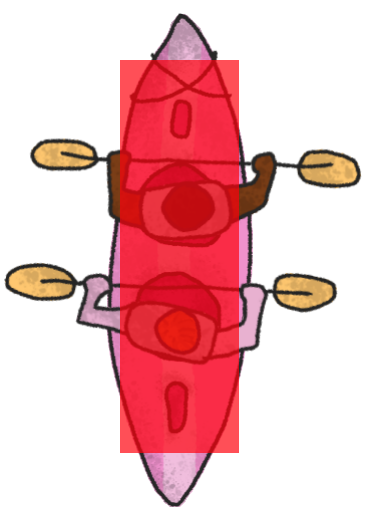
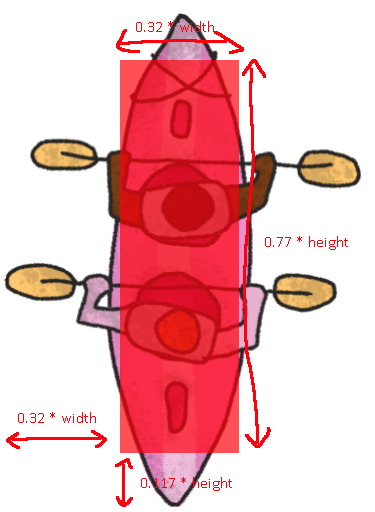
correct collisions

diff --git a/Implementation/core/src/com/teamonehundred/pixelboat/CollisionBounds.java b/Implementation/core/src/com/teamonehundred/pixelboat/CollisionBounds.java
@@ -1,33 +1,108 @@
 package com.teamonehundred.pixelboat;
 
-import com.badlogic.gdx.math.Circle;
+import com.badlogic.gdx.math.Polygon;
 import com.badlogic.gdx.math.Rectangle;
 import com.badlogic.gdx.math.Shape2D;
+import com.badlogic.gdx.math.Vector2;
 
+import java.util.ArrayList;
 import java.util.List;
 
 class CollisionBounds {
     private List<Shape2D> bounds;  // shapes that represent the area of the object
+    private float rotation; // the rotation of the sprite
+    private Vector2 origin; // the centre coordinate of the sprite
 
-    CollisionBounds(List<Shape2D> bounds){
-        this.bounds = bounds;
+    CollisionBounds() {
+        this.bounds = new ArrayList<>();
+        rotation = 0;
+        origin = new Vector2();
     }
 
-    public List<Shape2D> getBounds(){return bounds;}
+    public List<Shape2D> getShapes() {
+        return bounds;
+    }
 
-    public boolean isColliding(CollisionBounds collider){
+    public float getRotation() {
+        return rotation;
+    }
+
+    public void setRotation(float new_rotation) {
+        this.rotation = new_rotation;
+    }
+
+    public Vector2 getOrigin() {
+        return origin;
+    }
+
+    public void setOrigin(Vector2 o) {
+        origin = o;
+    }
+
+    public void addBound(Shape2D new_bound) {
+        bounds.add(new_bound);
+    }
+
+    public boolean isColliding(CollisionBounds collider) {
         // only works for rectangles, but could be expanded to check for other shape types
-        for(Shape2D my_bound : bounds) {
-            for (Shape2D their_bound : collider.getBounds()){
-                if (my_bound instanceof Rectangle){
-                    if (their_bound instanceof Rectangle){
-                        if(((Rectangle) my_bound).overlaps((Rectangle)their_bound))
-                            return false;
-                    }
+        for (Shape2D my_bound : bounds) {
+            for (Shape2D their_bound : collider.getShapes()) {
+                if (my_bound instanceof Rectangle && their_bound instanceof Rectangle) {
+                    if (rectOnRectCollides((Rectangle) my_bound, rotation, origin, (Rectangle) their_bound, collider.getRotation(), collider.getOrigin()))
+                        return true;
                 }
             }
         }
 
-        return true;
+        return false;
+    }
+
+    public boolean rectOnRectCollides(Rectangle r1, float rot1, Vector2 o1, Rectangle r2, float rot2, Vector2 o2) {
+        //get all points from rectangle 1
+        Vector2[] r1_prime = new Vector2[4];
+        r1_prime[0] = (new Vector2(r1.x, r1.y));
+        r1_prime[1] = (new Vector2(r1.x, r1.y + r1.height));
+        r1_prime[2] = (new Vector2(r1.x + r1.width, r1.y));
+        r1_prime[3] = (new Vector2(r1.x + r1.width, r1.y + r1.height));
+
+        //get all points from rectangle 2
+        Vector2[] r2_prime = new Vector2[4];
+        r2_prime[0] = (new Vector2(r2.x, r2.y));
+        r2_prime[1] = (new Vector2(r2.x, r2.y + r2.height));
+        r2_prime[2] = (new Vector2(r2.x + r2.width, r2.y));
+        r2_prime[3] = (new Vector2(r2.x + r2.width, r2.y + r2.height));
+
+        // rotate all points about their sprite's origin
+        for (Vector2 p : r1_prime)
+            p.rotateAround(o1, rot1);
+        for (Vector2 p : r2_prime)
+            p.rotateAround(o2, rot2);
+
+        Polygon pr1 = new Polygon(new float[]{
+                r1_prime[0].x, r1_prime[0].y,
+                r1_prime[1].x, r1_prime[1].y,
+                r1_prime[2].x, r1_prime[2].y,
+                r1_prime[3].x, r1_prime[3].y,});
+
+        Polygon pr2 = new Polygon(new float[]{
+                r2_prime[0].x, r2_prime[0].y,
+                r2_prime[1].x, r2_prime[1].y,
+                r2_prime[2].x, r2_prime[2].y,
+                r2_prime[3].x, r2_prime[3].y,});
+
+        // check if any points from r1 is in r2
+        for (Vector2 p : r1_prime) {
+            if (pr2.contains(p))
+                return true;
+        }
+
+        // check if any points from r2 is in r1
+        for (Vector2 p : r2_prime) {
+            if (pr1.contains(p))
+                return true;
+        }
+
+        // if nothing has collided
+        return false;
     }
 }

diff --git a/Implementation/core/src/com/teamonehundred/pixelboat/Boat.java b/Implementation/core/src/com/teamonehundred/pixelboat/Boat.java
@@ -4,6 +4,8 @@ import com.badlogic.gdx.graphics.Texture;
 import com.badlogic.gdx.graphics.g2d.Animation;
 import com.badlogic.gdx.math.Rectangle;
 import com.badlogic.gdx.math.Shape2D;
+import com.badlogic.gdx.math.Vector2;
+import org.w3c.dom.css.Rect;
 
 import java.util.ArrayList;
 import java.util.Arrays;
@@ -34,8 +36,6 @@ abstract class Boat extends MovableObject implements CollisionObject {
 
     Animation<Texture> rowing_animation;
 
-    CollisionBounds bounds;
-
     /* ################################### //
                   CONSTRUCTORS
     // ################################### */
@@ -47,8 +47,6 @@ abstract class Boat extends MovableObject implements CollisionObject {
 
     Boat(int x, int y, int w, int h, String texture_path) {
         super(x, y, w, h, texture_path, 4);
-
-        bounds = new CollisionBounds(new ArrayList<Shape2D>(Arrays.asList(new Rectangle(0, 0, 1, 2))));
     }
 
     //specify specs
@@ -190,9 +188,29 @@ abstract class Boat extends MovableObject implements CollisionObject {
      * @param object The CollisionObject that will be checked to see if it has hit this boat.
      */
     public void checkCollisions(CollisionObject object) {
-        if (bounds.isColliding(object.getBounds())) {
+        if (this.getBounds().isColliding(object.getBounds())) {
             hasCollided();
             object.hasCollided();
         }
+    }
+
+    @Override
+    public CollisionBounds getBounds() {
+        // create a new collision bounds object representing my current position
+        // see the collision bounds visualisation folder in assets for a visual representation
+        CollisionBounds my_bounds = new CollisionBounds();
+        Rectangle main_rect = new Rectangle(
+                sprite.getX()+(0.32f*sprite.getWidth()),
+                sprite.getY()+(0.117f*sprite.getHeight()),
+                0.32f*sprite.getWidth(),
+                0.77f* sprite.getHeight());
+        my_bounds.addBound(main_rect);
+
+        my_bounds.setOrigin(new Vector2(
+                sprite.getX()+(sprite.getWidth()/2),
+                sprite.getY()+(sprite.getHeight()/2)));
+        my_bounds.setRotation(sprite.getRotation());
+
+        return my_bounds;
     }
 }

diff --git a/Implementation/core/src/com/teamonehundred/pixelboat/ObstacleDuck.java b/Implementation/core/src/com/teamonehundred/pixelboat/ObstacleDuck.java
@@ -1,5 +1,8 @@
 package com.teamonehundred.pixelboat;
 
+import com.badlogic.gdx.math.Rectangle;
+import com.badlogic.gdx.math.Vector2;
+
 class ObstacleDuck extends Obstacle{
     ObstacleDuck(int x, int y) {
         super(x, y, 30, 30, "obstacle_duck.png");
@@ -16,5 +19,32 @@ class ObstacleDuck extends Obstacle{
     public void updatePosition() {
         turn(1);
         super.updatePosition();
+    }
+
+    @Override
+    public CollisionBounds getBounds() {
+        // create a new collision bounds object representing my current position
+        // see the collision bounds visualisation folder in assets for a visual representation
+        CollisionBounds my_bounds = new CollisionBounds();
+        Rectangle r1 = new Rectangle(
+                sprite.getX()+(0.09f*sprite.getWidth()),
+                sprite.getY()+(0.13f*sprite.getHeight()),
+                0.41f*sprite.getWidth(),
+                0.4f* sprite.getHeight());
+        Rectangle r2 = new Rectangle(
+                sprite.getX()+(0.5f*sprite.getWidth()),
+                sprite.getY()+(0.13f*sprite.getHeight()),
+                0.31f*sprite.getWidth(),
+                0.75f* sprite.getHeight());
+
+        my_bounds.addBound(r1);
+        my_bounds.addBound(r2);
+
+        my_bounds.setOrigin(new Vector2(
+                sprite.getX()+(sprite.getWidth()/2),
+                sprite.getY()+(sprite.getHeight()/2)));
+        my_bounds.setRotation(sprite.getRotation());
+
+        return my_bounds;
     }
 }

diff --git a/Implementation/core/src/com/teamonehundred/pixelboat/AIBoat.java b/Implementation/core/src/com/teamonehundred/pixelboat/AIBoat.java
@@ -1,5 +1,7 @@
 package com.teamonehundred.pixelboat;
 
+import com.badlogic.gdx.math.Shape2D;
+
 import java.util.ArrayList;
 import java.util.List;
 
@@ -114,13 +116,15 @@ public class AIBoat extends Boat {
                 double tempy = (Math.sin(Math.toRadians(ray_angle)) * dist) + (start_point.get(1));
                 //check if there is a collision hull (other than self) at (tempx, tempy)
                 for (CollisionObject collideable : collidables) {
-                    if (collideable.getBounds().contains((float) tempx, (float) tempy)) {
-                        if (cheeky_bit_of_coding) {
-                            turn(-1);
-                            return;
-                        } else {
-                            turn(1);
-                            return;
+                    for (Shape2D bound : collideable.getBounds().getShapes()) {
+                        if (bound.contains((float) tempx, (float) tempy)) {
+                            if (cheeky_bit_of_coding) {
+                                turn(-1);
+                                return;
+                            } else {
+                                turn(1);
+                                return;
+                            }
                         }
                     }
 

diff --git a/Implementation/core/src/com/teamonehundred/pixelboat/ObstacleBranch.java b/Implementation/core/src/com/teamonehundred/pixelboat/ObstacleBranch.java
@@ -1,9 +1,32 @@
 package com.teamonehundred.pixelboat;
 
+import com.badlogic.gdx.math.Rectangle;
+import com.badlogic.gdx.math.Vector2;
+
 // simple obstacle that doesn't move
 class ObstacleBranch extends Obstacle {
     ObstacleBranch(int x, int y) {
         super(x, y, 60, 60, "obstacle_branch.png");
         sprite.setRotation(-90 + (float)Math.random() * 180);
+    }
+
+    @Override
+    public CollisionBounds getBounds() {
+        // create a new collision bounds object representing my current position
+        // see the collision bounds visualisation folder in assets for a visual representation
+        CollisionBounds my_bounds = new CollisionBounds();
+        Rectangle main_rect = new Rectangle(
+                sprite.getX()+(0.31f*sprite.getWidth()),
+                sprite.getY()+(0.06f*sprite.getHeight()),
+                0.31f*sprite.getWidth(),
+                0.88f* sprite.getHeight());
+        my_bounds.addBound(main_rect);
+
+        my_bounds.setOrigin(new Vector2(
+                sprite.getX()+(sprite.getWidth()/2),
+                sprite.getY()+(sprite.getHeight()/2)));
+        my_bounds.setRotation(sprite.getRotation());
+
+        return my_bounds;
     }
 }

diff --git a/Implementation/core/src/com/teamonehundred/pixelboat/GameObject.java b/Implementation/core/src/com/teamonehundred/pixelboat/GameObject.java
@@ -5,6 +5,9 @@ import com.badlogic.gdx.graphics.g2d.Animation;
 import com.badlogic.gdx.graphics.g2d.Sprite;
 import com.badlogic.gdx.graphics.g2d.TextureRegion;
 import com.badlogic.gdx.math.Rectangle;
+import com.badlogic.gdx.math.Shape2D;
+
+import java.util.ArrayList;
 
 /**
  * The class that everything visible in the game is derived from.
@@ -89,8 +92,13 @@ abstract class GameObject {
         return sprite;
     }
 
-    public Rectangle getBounds() {
-        return sprite.getBoundingRectangle();
+    public CollisionBounds getBounds() {
+        // create a new collision bounds object representing my current position
+        // see the collision bounds visualisation folder in assets for a visual representation
+        CollisionBounds my_bounds = new CollisionBounds();
+        Rectangle main_rect = sprite.getBoundingRectangle();  // default is to use whole sprite
+        my_bounds.addBound(main_rect);
+        return my_bounds;
     }
 
     public void setAnimationFrame(int i){
